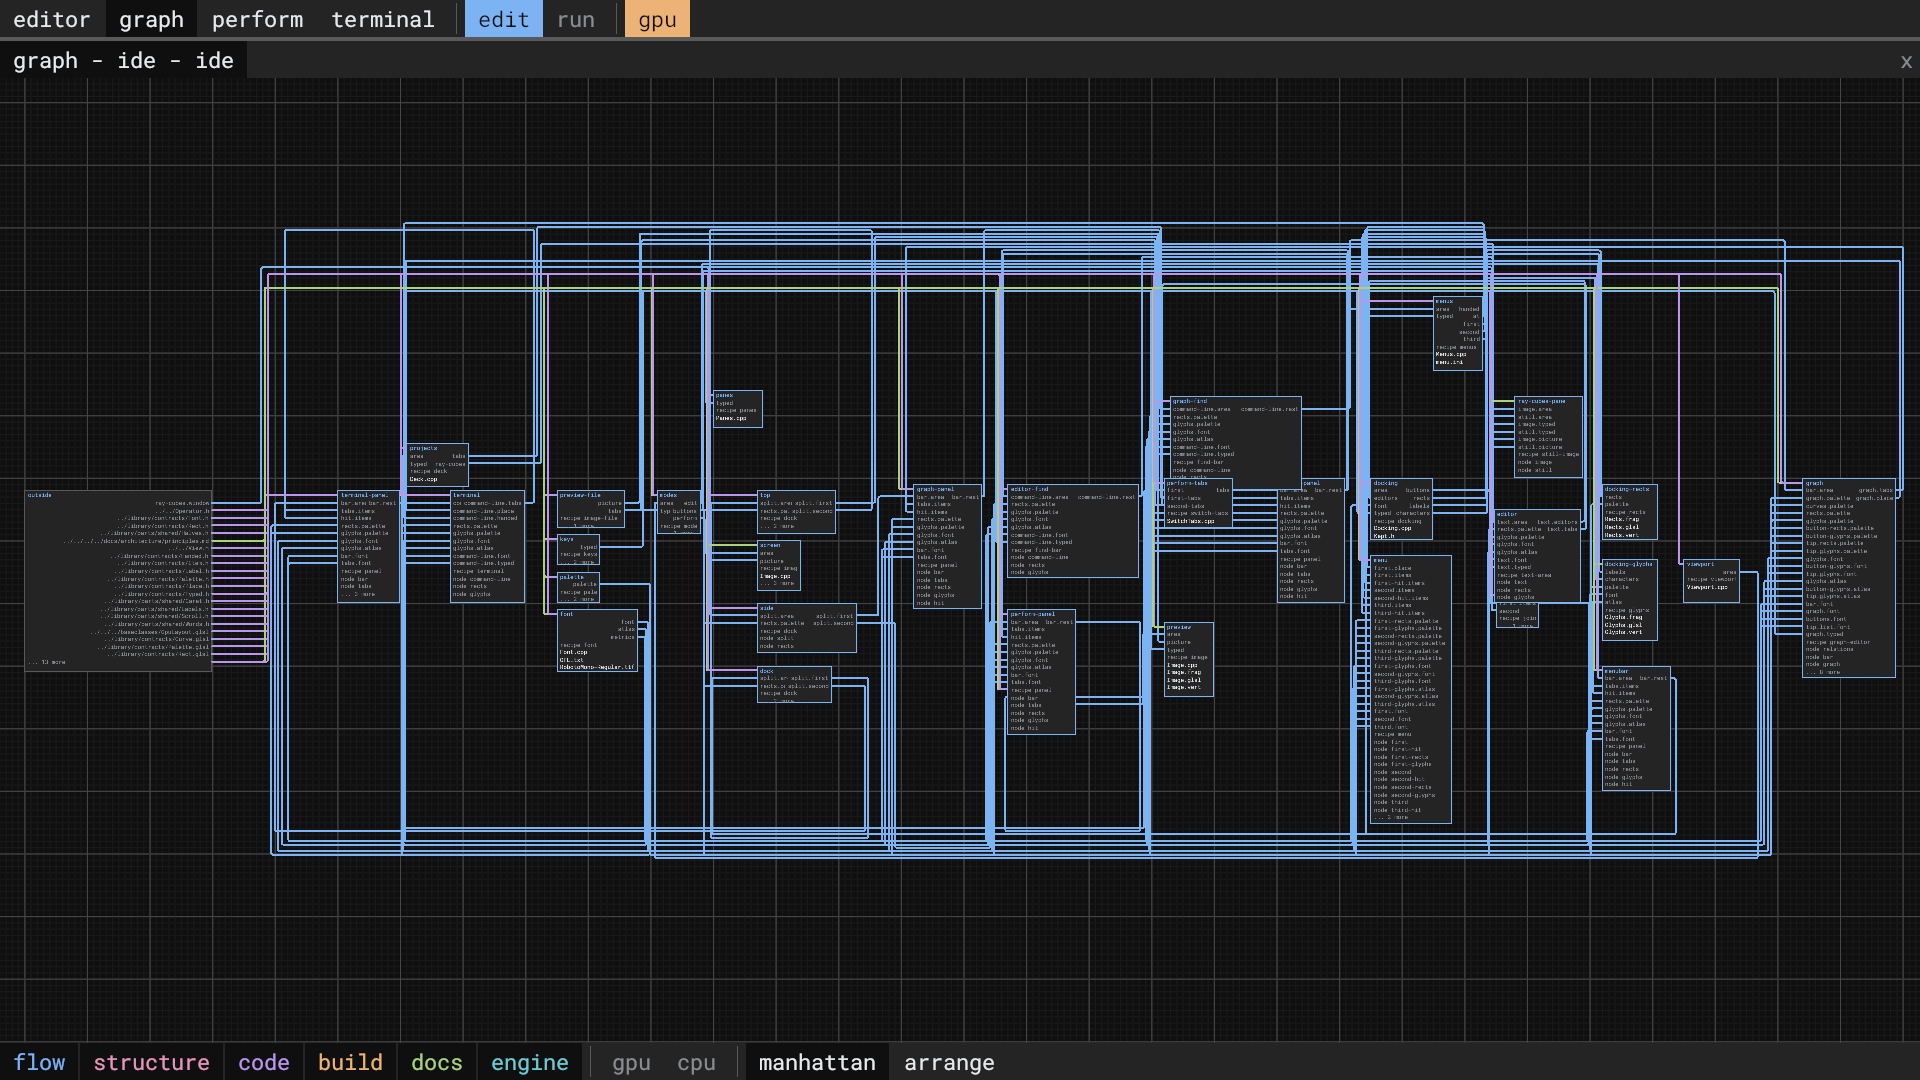
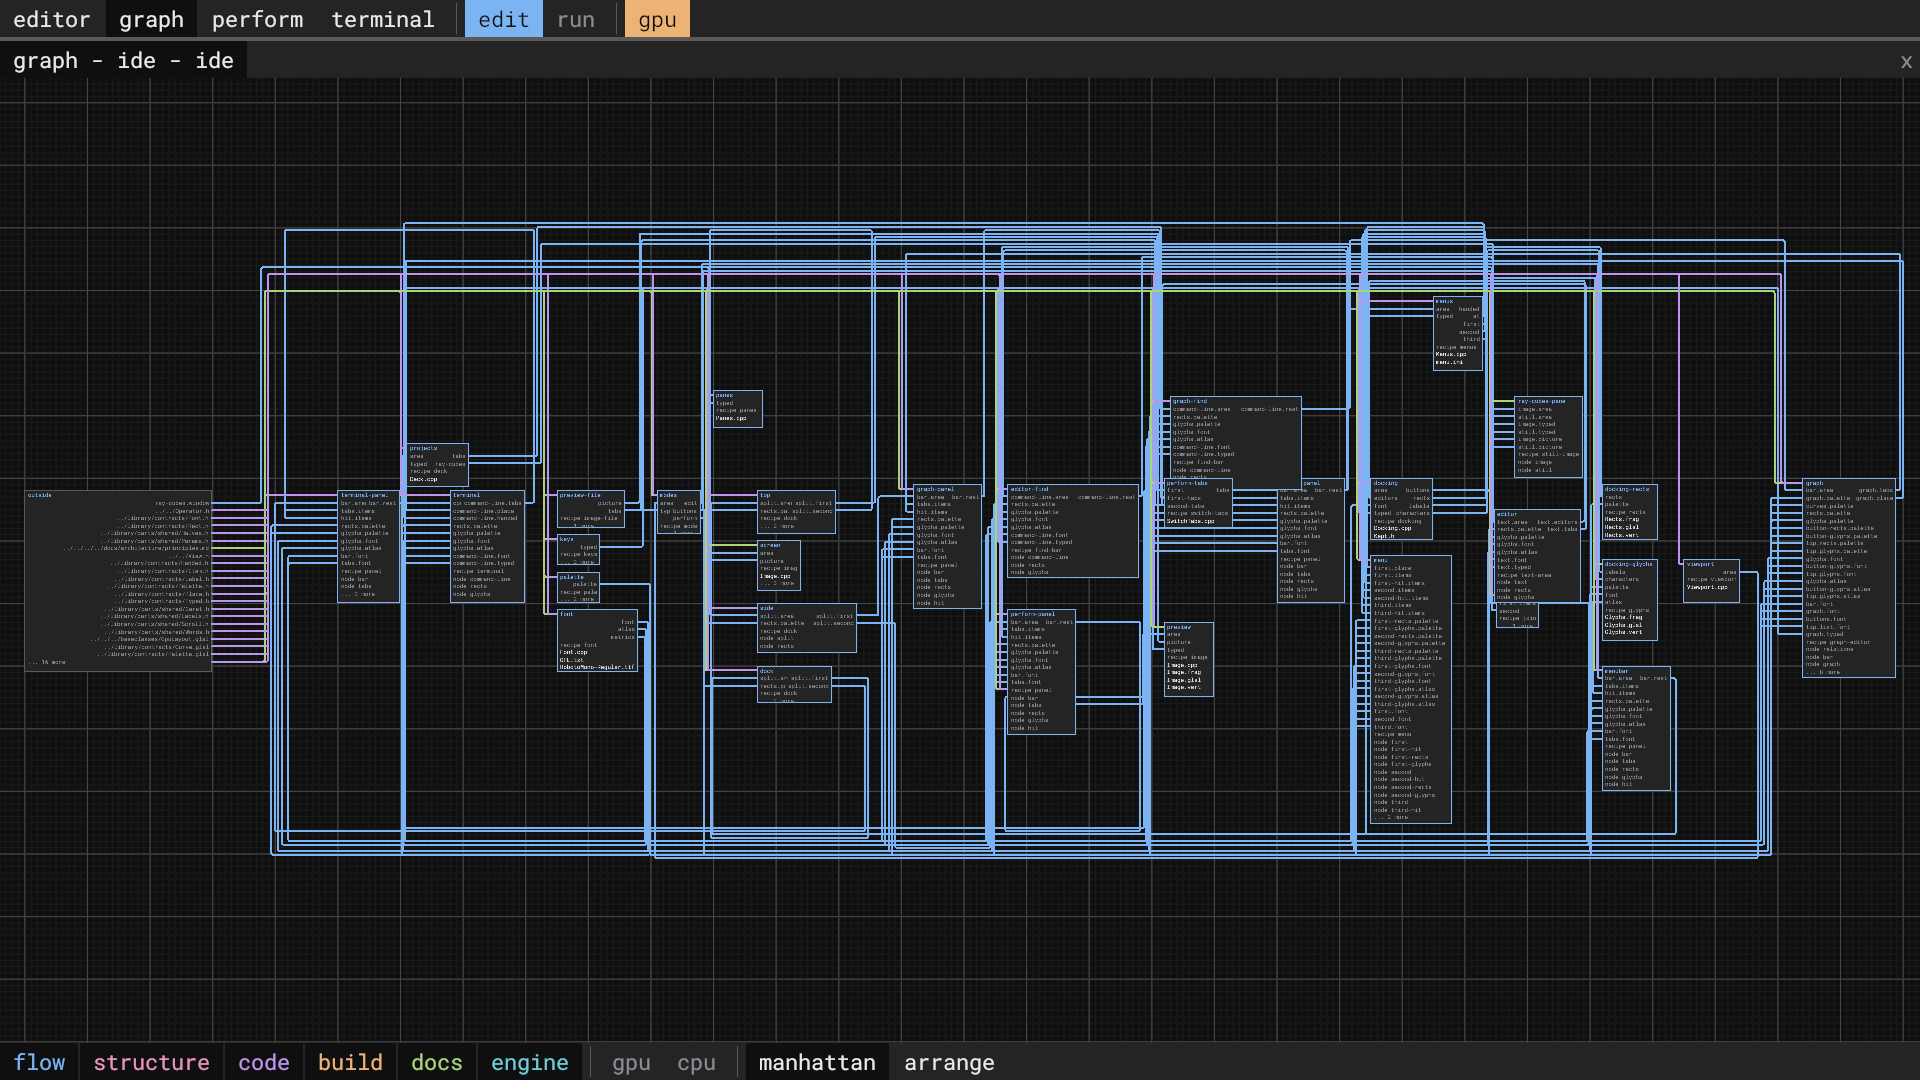
statistics: the lines of code and the startup time as the release build at 83182e56 counted them, and the README's dive and graph-ide pictures it retook, which show the repository's own files, now with the shared Costs.h, Hash.h and Params.h and their includes; the other pictures byte-identical

Changed region(s): [[0.1562, 0.2139, 1.0, 0.275], [0.0625, 0.4889, 0.125, 0.6111]]

diff --git a/docs/statistics/LOC.md b/docs/statistics/LOC.md
@@ -6,14 +6,14 @@ Generated by [`src/tools/fetch-statistics.py`](../../src/tools/fetch-statistics.
 
 | Language | Files | Code | Comment | Blank |
 | --- | --: | --: | --: | --: |
-| C++ | 143 | 26143 | 4543 | 2689 |
+| C++ | 146 | 26102 | 4552 | 2700 |
 | CMake | 4 | 430 | 135 | 31 |
 | GLSL | 126 | 2123 | 407 | 384 |
 | Manifest | 60 | 1196 | 500 | 370 |
 | PowerShell | 1 | 93 | 26 | 4 |
 | Python | 17 | 4610 | 273 | 599 |
 | Shell | 2 | 99 | 31 | 4 |
-| **Total** | 353 | 34694 | 5915 | 4081 |
+| **Total** | 356 | 34653 | 5924 | 4092 |
 
 ## By folder
 
@@ -100,7 +100,7 @@ Generated by [`src/tools/fetch-statistics.py`](../../src/tools/fetch-statistics.
 | `src/` | 1 | 14 | 1 | 2 |
 | `src/baseclasses/` | 19 | 3630 | 515 | 502 |
 | `src/baseclasses/examples/triangle/` | 3 | 65 | 8 | 10 |
-| `src/runtime/` | 23 | 6669 | 1152 | 686 |
+| `src/runtime/` | 23 | 6680 | 1157 | 690 |
 | `src/runtime/cmake/` | 2 | 189 | 53 | 13 |
 | `src/runtime/recipes/cli/` | 1 | 20 | 9 | 7 |
 | `src/runtime/recipes/ide/` | 1 | 325 | 88 | 75 |
@@ -115,35 +115,35 @@ Generated by [`src/tools/fetch-statistics.py`](../../src/tools/fetch-statistics.
 | `src/runtime/recipes/library/components/text-area/` | 1 | 18 | 5 | 7 |
 | `src/runtime/recipes/library/components/tooltip/` | 1 | 18 | 6 | 7 |
 | `src/runtime/recipes/library/contracts/` | 18 | 339 | 146 | 82 |
-| `src/runtime/recipes/library/parts/bar/` | 2 | 59 | 11 | 8 |
+| `src/runtime/recipes/library/parts/bar/` | 2 | 56 | 11 | 8 |
 | `src/runtime/recipes/library/parts/command-items/` | 2 | 3 | 3 | 2 |
-| `src/runtime/recipes/library/parts/command-line/` | 2 | 1324 | 243 | 88 |
+| `src/runtime/recipes/library/parts/command-line/` | 2 | 1323 | 243 | 88 |
 | `src/runtime/recipes/library/parts/curves/` | 4 | 48 | 13 | 7 |
 | `src/runtime/recipes/library/parts/deck/` | 2 | 148 | 32 | 13 |
-| `src/runtime/recipes/library/parts/docking/` | 3 | 1633 | 298 | 100 |
+| `src/runtime/recipes/library/parts/docking/` | 3 | 1627 | 297 | 99 |
 | `src/runtime/recipes/library/parts/editor/` | 2 | 163 | 36 | 18 |
-| `src/runtime/recipes/library/parts/files/` | 2 | 327 | 52 | 31 |
-| `src/runtime/recipes/library/parts/font/` | 2 | 170 | 31 | 14 |
+| `src/runtime/recipes/library/parts/files/` | 2 | 321 | 50 | 30 |
+| `src/runtime/recipes/library/parts/font/` | 2 | 177 | 33 | 14 |
 | `src/runtime/recipes/library/parts/glyphs/` | 4 | 48 | 14 | 6 |
-| `src/runtime/recipes/library/parts/graph/` | 13 | 3767 | 831 | 271 |
+| `src/runtime/recipes/library/parts/graph/` | 13 | 3745 | 830 | 270 |
 | `src/runtime/recipes/library/parts/hit/` | 2 | 93 | 18 | 15 |
 | `src/runtime/recipes/library/parts/image-file/` | 2 | 108 | 24 | 11 |
 | `src/runtime/recipes/library/parts/image/` | 5 | 186 | 51 | 20 |
-| `src/runtime/recipes/library/parts/inspect/` | 2 | 334 | 51 | 24 |
+| `src/runtime/recipes/library/parts/inspect/` | 2 | 308 | 49 | 23 |
 | `src/runtime/recipes/library/parts/join/` | 2 | 31 | 7 | 8 |
 | `src/runtime/recipes/library/parts/keys/` | 2 | 202 | 37 | 19 |
-| `src/runtime/recipes/library/parts/library/` | 2 | 822 | 118 | 60 |
-| `src/runtime/recipes/library/parts/list/` | 2 | 375 | 81 | 24 |
-| `src/runtime/recipes/library/parts/menus/` | 2 | 463 | 91 | 33 |
+| `src/runtime/recipes/library/parts/library/` | 2 | 781 | 115 | 58 |
+| `src/runtime/recipes/library/parts/list/` | 2 | 373 | 81 | 24 |
+| `src/runtime/recipes/library/parts/menus/` | 2 | 462 | 91 | 33 |
 | `src/runtime/recipes/library/parts/modes/` | 2 | 222 | 61 | 15 |
 | `src/runtime/recipes/library/parts/palette/` | 2 | 88 | 10 | 11 |
 | `src/runtime/recipes/library/parts/panes/` | 2 | 335 | 51 | 22 |
-| `src/runtime/recipes/library/parts/projects/` | 2 | 219 | 38 | 23 |
+| `src/runtime/recipes/library/parts/projects/` | 2 | 213 | 38 | 22 |
 | `src/runtime/recipes/library/parts/rects/` | 4 | 28 | 4 | 6 |
-| `src/runtime/recipes/library/parts/relations/` | 3 | 843 | 160 | 60 |
-| `src/runtime/recipes/library/parts/shared/` | 10 | 541 | 140 | 107 |
+| `src/runtime/recipes/library/parts/relations/` | 3 | 841 | 160 | 60 |
+| `src/runtime/recipes/library/parts/shared/` | 13 | 599 | 151 | 121 |
 | `src/runtime/recipes/library/parts/snapshot/` | 3 | 116 | 17 | 16 |
-| `src/runtime/recipes/library/parts/split/` | 2 | 77 | 9 | 10 |
+| `src/runtime/recipes/library/parts/split/` | 2 | 76 | 9 | 10 |
 | `src/runtime/recipes/library/parts/still/` | 3 | 117 | 30 | 17 |
 | `src/runtime/recipes/library/parts/switch-tabs/` | 2 | 74 | 13 | 11 |
 | `src/runtime/recipes/library/parts/switch/` | 2 | 34 | 5 | 9 |
@@ -178,4 +178,4 @@ Generated by [`src/tools/fetch-statistics.py`](../../src/tools/fetch-statistics.
 | `src/tools/tests/mistakes/take/` | 1 | 27 | 2 | 7 |
 | `src/tools/tests/mistakes/twin/` | 1 | 9 | 2 | 4 |
 | `src/tools/tests/mistakes/wrong/` | 2 | 74 | 6 | 15 |
-| **Total** | 353 | 34694 | 5915 | 4081 |
+| **Total** | 356 | 34653 | 5924 | 4092 |

diff --git a/docs/statistics/performance.md b/docs/statistics/performance.md
@@ -4,6 +4,6 @@ Generated by [`src/tools/fetch-statistics.py`](../../src/tools/fetch-statistics.
 
 | System | CPU | GPU | Build | Startup to exit, median | Startup to exit, fastest | Binary size |
 | --- | --- | --- | --- | --: | --: | --: |
-| Linux | AMD Ryzen AI 7 350 w/ Radeon 860M | NVIDIA GeForce RTX 5070 Laptop GPU | `vulpen 65143668` | 1.49 ms | 0.90 ms | 3347.0 KiB |
+| Linux | AMD Ryzen AI 7 350 w/ Radeon 860M | NVIDIA GeForce RTX 5070 Laptop GPU | `vulpen c97aa041` | 1.66 ms | 1.12 ms | 3342.7 KiB |
 | Windows | AMD Ryzen AI 7 350 w/ Radeon 860M | NVIDIA GeForce RTX 5070 Laptop GPU | `vulpen 2ddc4d7-dirty` | 8.04 ms | 7.38 ms | 683.0 KiB |
 | Linux | Intel(R) Core(TM) i7-7700HQ CPU @ 2.80GHz | NVIDIA GeForce GTX 1070 | `vulpen 8a92b28-dirty` | 1.98 ms | 1.62 ms | 3152.5 KiB |
